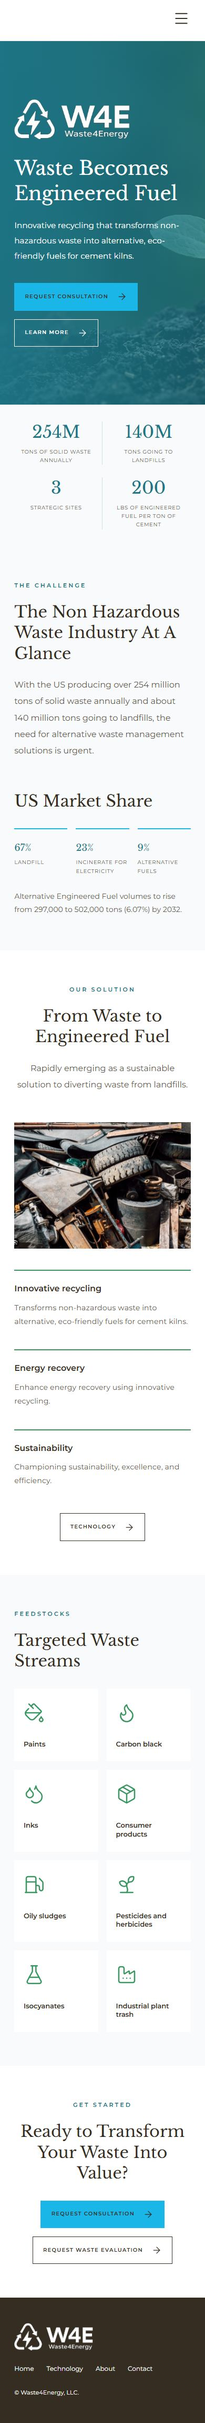
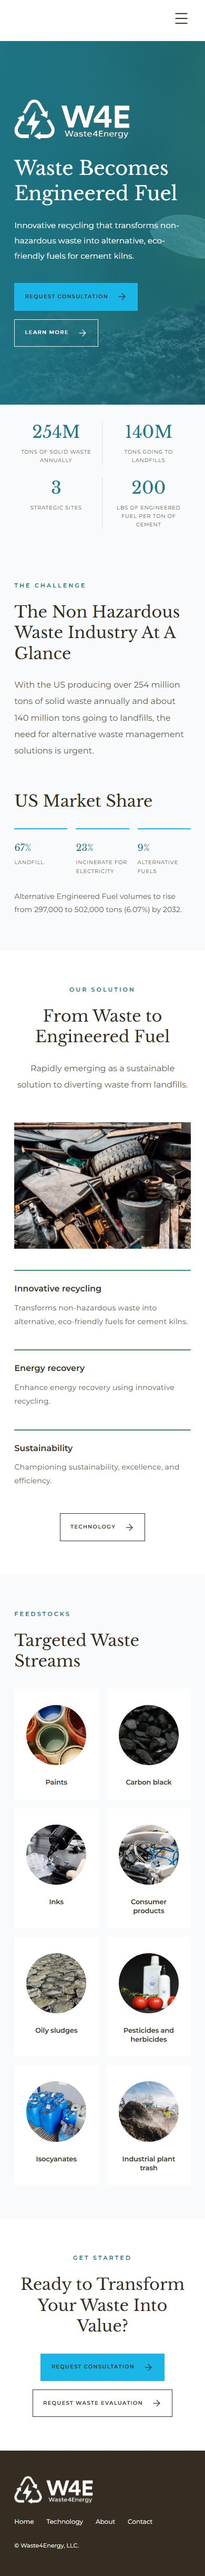
Use presentation photos for targeted waste stream cards

diff --git a/Waste4Energy_Review/admin/admin.js b/Waste4Energy_Review/admin/admin.js
@@ -1,4 +1,4 @@
-let data, csrf, fonts, icons, dirty=false, active='home';
+let data, csrf, fonts, icons, streamImages, dirty=false, active='home';
 const editor=document.querySelector('#editor');
 const status=document.querySelector('#status');
 const tabs=document.querySelector('#tabs');
@@ -9,7 +9,7 @@ function fields(value,path,parent){
   if(typeof value==='string'){
     const wrap=document.createElement('label');wrap.className='field';wrap.textContent=label(path.at(-1));
     let input;
-    const options=path.includes('fonts')?fonts:path.at(-1)==='icon'?icons:path.at(-1)==='image'?['paul-bordelon.png','jeff-gloyd.png','torry-ingram.png','grant-williams.png']:null;
+    const options=path.includes('fonts')?fonts:path.at(-1)==='icon'?icons:path.at(-1)==='image'?(path.includes('streams')?streamImages:['paul-bordelon.png','jeff-gloyd.png','torry-ingram.png','grant-williams.png']):null;
     if(options){input=document.createElement('select');for(const v of options){const o=document.createElement('option');o.value=v;o.textContent=v;input.append(o);}}
     else input=document.createElement(value.length>100 || ['text','intro','message','alt','mapAlt'].includes(path.at(-1))?'textarea':'input');
     input.setAttribute('aria-label',label(path.at(-1)));input.value=value;input.addEventListener('input',()=>set(path,input.value));
@@ -44,4 +44,4 @@ document.querySelector('#import').addEventListener('click',()=>document.querySel
 document.querySelector('#file').addEventListener('change',async e=>{try{const next=JSON.parse(await e.target.files[0].text());if(!next.brand||!next.home||!next.technology||!next.about||!next.contact||!next.navigation)throw new Error('Choose a W4E content backup.');data=next;dirty=true;render();status.textContent='Imported. Save to validate and apply.';}catch(e){status.textContent='Could not import: '+e.message;}});
 document.querySelector('#export').addEventListener('click',e=>{if(dirty){e.preventDefault();status.textContent='Save your changes before exporting.';}});
 window.addEventListener('beforeunload',e=>{if(dirty){e.preventDefault();e.returnValue='';}});
-fetch('/api/content').then(r=>{if(!r.ok)throw new Error('Server unavailable.');return r.json();}).then(result=>{({data,csrf,fonts,icons}=result);render();status.textContent='Ready';}).catch(e=>status.textContent='Could not load: '+e.message);
+fetch('/api/content').then(r=>{if(!r.ok)throw new Error('Server unavailable.');return r.json();}).then(result=>{({data,csrf,fonts,icons,streamImages}=result);render();status.textContent='Ready';}).catch(e=>status.textContent='Could not load: '+e.message);

diff --git a/Waste4Energy_Review/styles.css b/Waste4Energy_Review/styles.css
@@ -34,3 +34,6 @@
 
 .roadmap-bg{transform-origin:50% 50%;animation:vision-ken-burns 6s cubic-bezier(.45,0,.55,1) infinite alternate}
 @keyframes vision-ken-burns{from{transform:scale(1.16) translate3d(-4%,2.5%,0)}to{transform:scale(1.21) translate3d(4%,-2.5%,0)}}
+
+.stream-card{text-align:center}
+.stream-image{width:100%;max-width:220px;aspect-ratio:1;object-fit:cover;border:5px solid var(--white);border-radius:50%;margin:0 auto 1.25rem}

diff --git a/Waste4Energy_Review/scripts/assets.py b/Waste4Energy_Review/scripts/assets.py
@@ -6,6 +6,9 @@ import fitz
 source = Path(sys.argv[1])
 out = Path(__file__).resolve().parents[1] / 'assets'
 doc = fitz.open(source)
+# Original, unmodified photos from physical slide 5, matched to their labels.
+for name, xref in [('paints', 106), ('carbon-black', 107), ('inks', 108), ('consumer-products', 109), ('oily-sludges', 110), ('pesticides-herbicides', 111), ('isocyanates', 112), ('industrial-plant-trash', 113)]:
+    (out / f'waste-{name}.jpeg').write_bytes(doc.extract_image(xref)['image'])
 names = ['paul-bordelon', 'jeff-gloyd', 'torry-ingram', 'grant-williams']
 # Render the original composited portraits: isolated embedded photographs have
 # PDF soft masks that do not reproduce correctly as standalone image files.

diff --git a/Waste4Energy_Review/CONTENT-MAP.md b/Waste4Energy_Review/CONTENT-MAP.md
@@ -8,7 +8,7 @@ Source: `Waste4Energy Presentation.pdf` (11 physical pages), supplied locally. T
 | 2: Our Vision | About vision / roadmap; short excerpts on Home | Texas, Alabama, Western US retained. No invented completion dates or Arizona facility. Home hero uses an excerpt from the supplied vision. |
 | 3: executive team | About team | Visually checked: Paul Bordelon = CEO; Jeff Gloyd = COO; Torry Ingram = Chief Sales Officer; Grant Williams = Strategic Consultant. Biographies and corresponding source portraits retained. |
 | 4: industry overview | Home challenge / market-share block | 254M annual tons, 140M landfill tons; 67%, 23%, 9% preserved. Growth sentence 297,000 to 502,000 tons (6.07%) by 2032 retained. Source percentages do not sum to 100%; no extra category invented. |
-| 5: targeted waste streams | Home icon grid | Paints, carbon black, inks, consumer products, oily sludges, pesticides and herbicides, isocyanates, industrial plant trash. Template's different eight categories removed. |
+| 5: targeted waste streams | Home photo grid | Paints, carbon black, inks, consumer products, oily sludges, pesticides and herbicides, isocyanates, industrial plant trash. Each category uses its corresponding original embedded photo from the presentation, displayed in a circle. Template's different eight categories removed. |
 | 6: alternative fuels | Technology intro and cement-process illustration | 200 lbs of engineered fuel per ton of cement added instead of coal. Not reworded as a guaranteed emissions reduction. Uses the exact supplied Process_Illustration.jpeg, with an accessible text description and full-size link. |
 | 7: site pitch | Technology site metrics and site plan | 30,000 NT/yr, 195,000 sqft, 17,600 sqft and +3,500 sqft retained. Full source plan preserves ancillary labels and dimensions. |
 | 8: Phase 1 receiving | Technology receiving / Phase 1 | Equipment list and full source schematic retained, including nested shredder and baghouse component labels on the schematic. |
